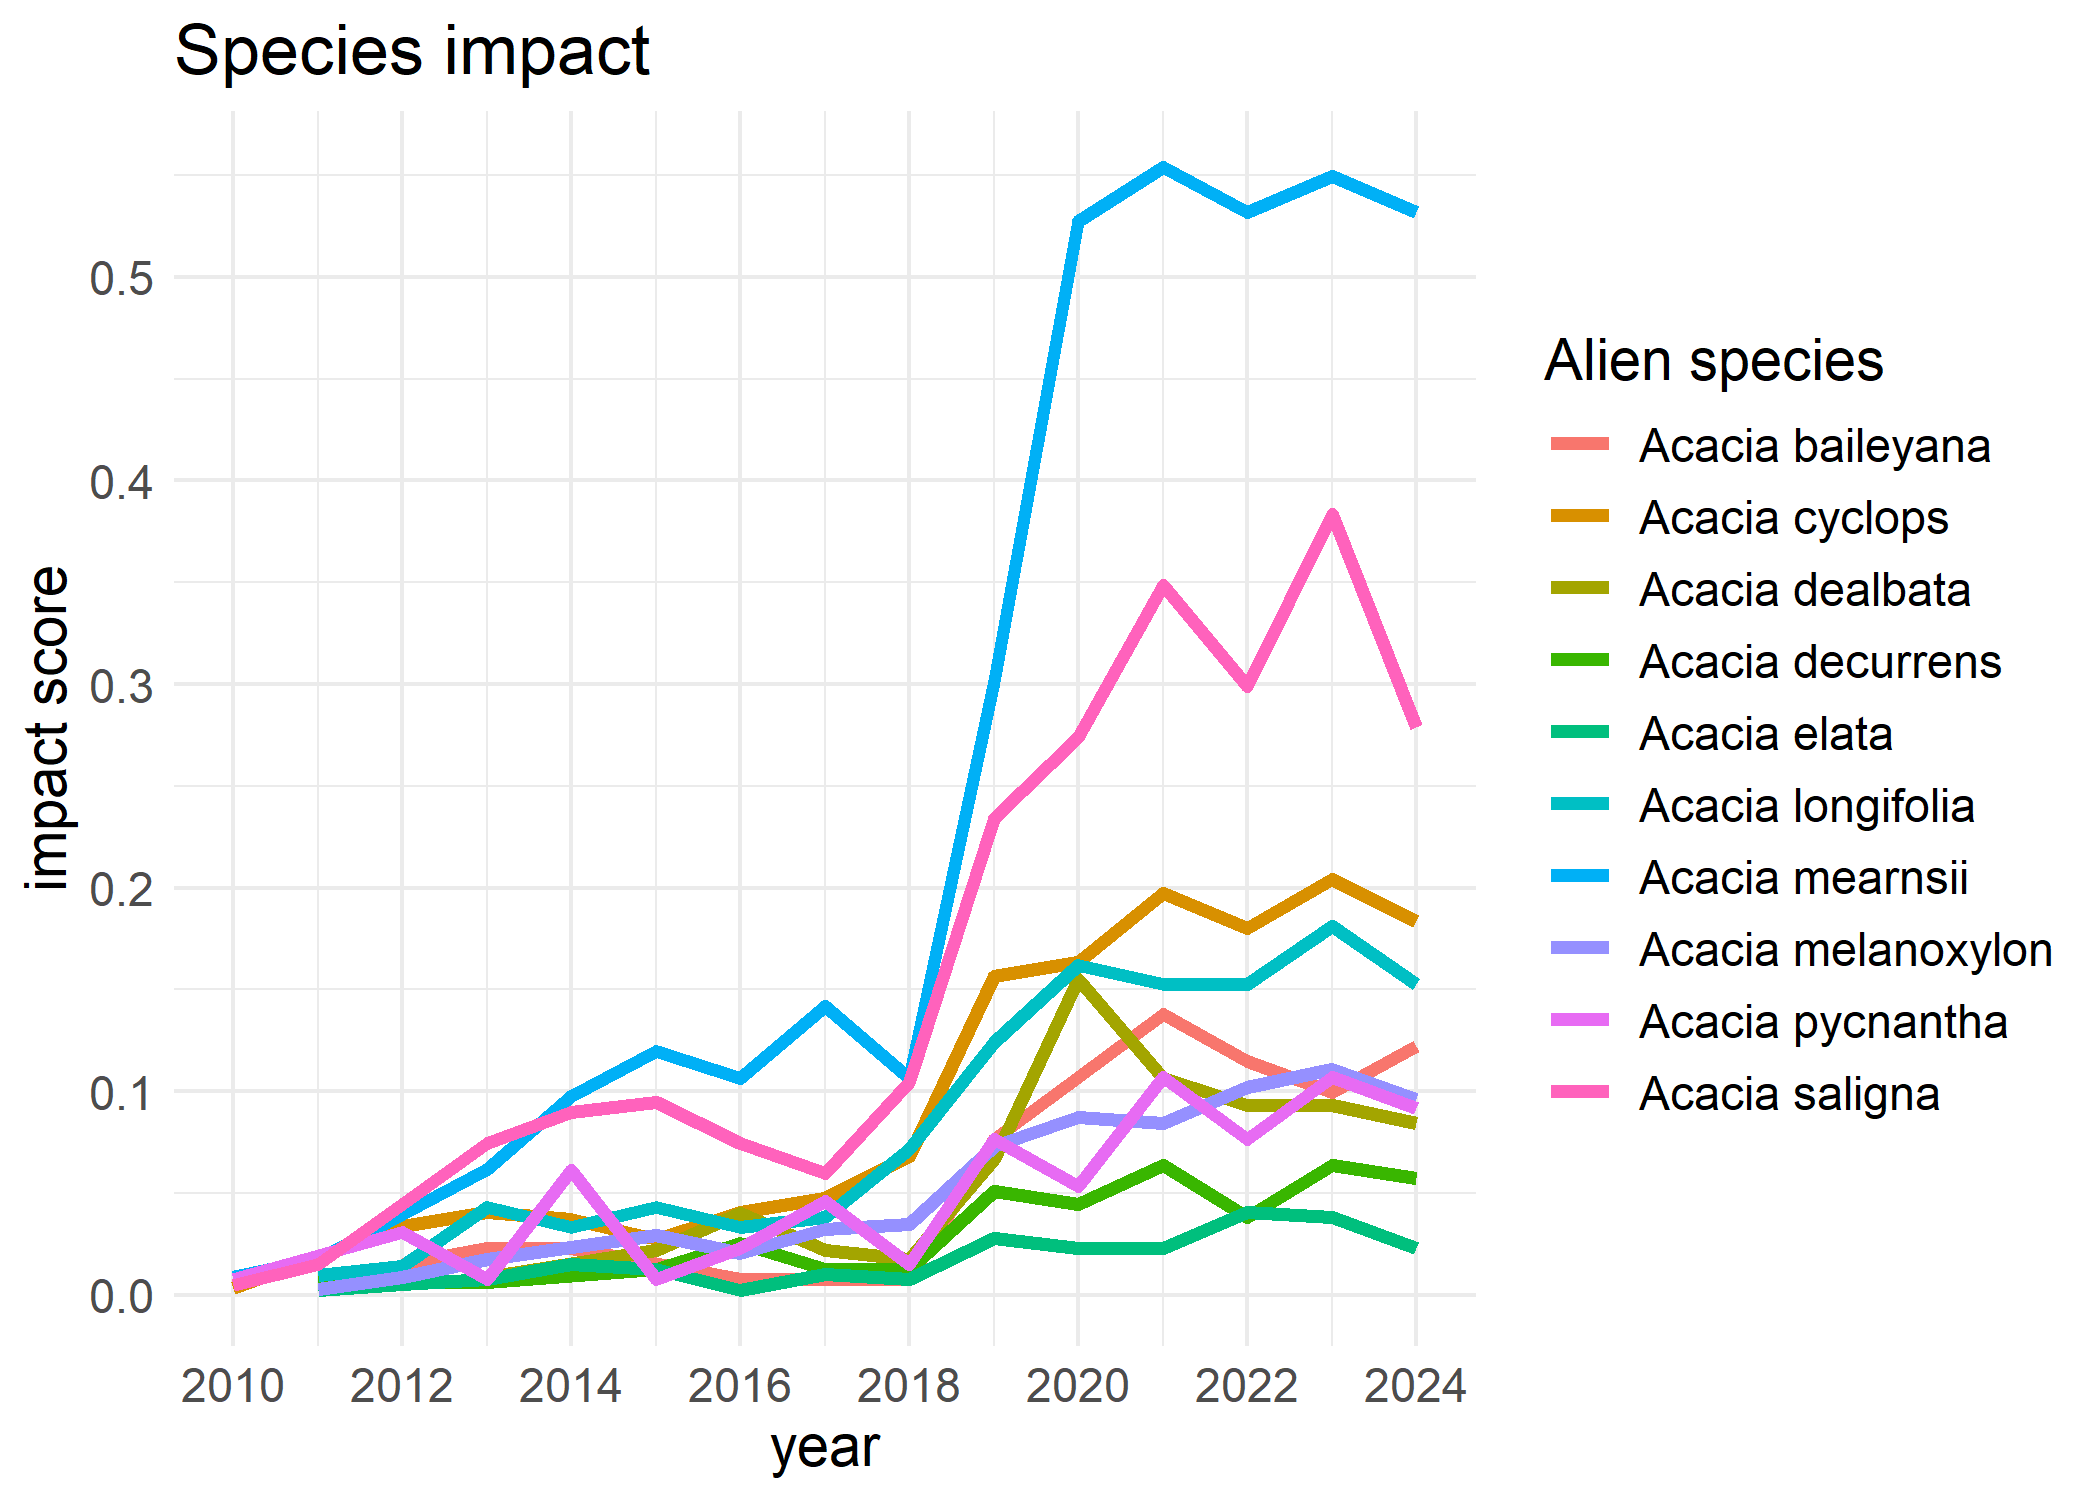
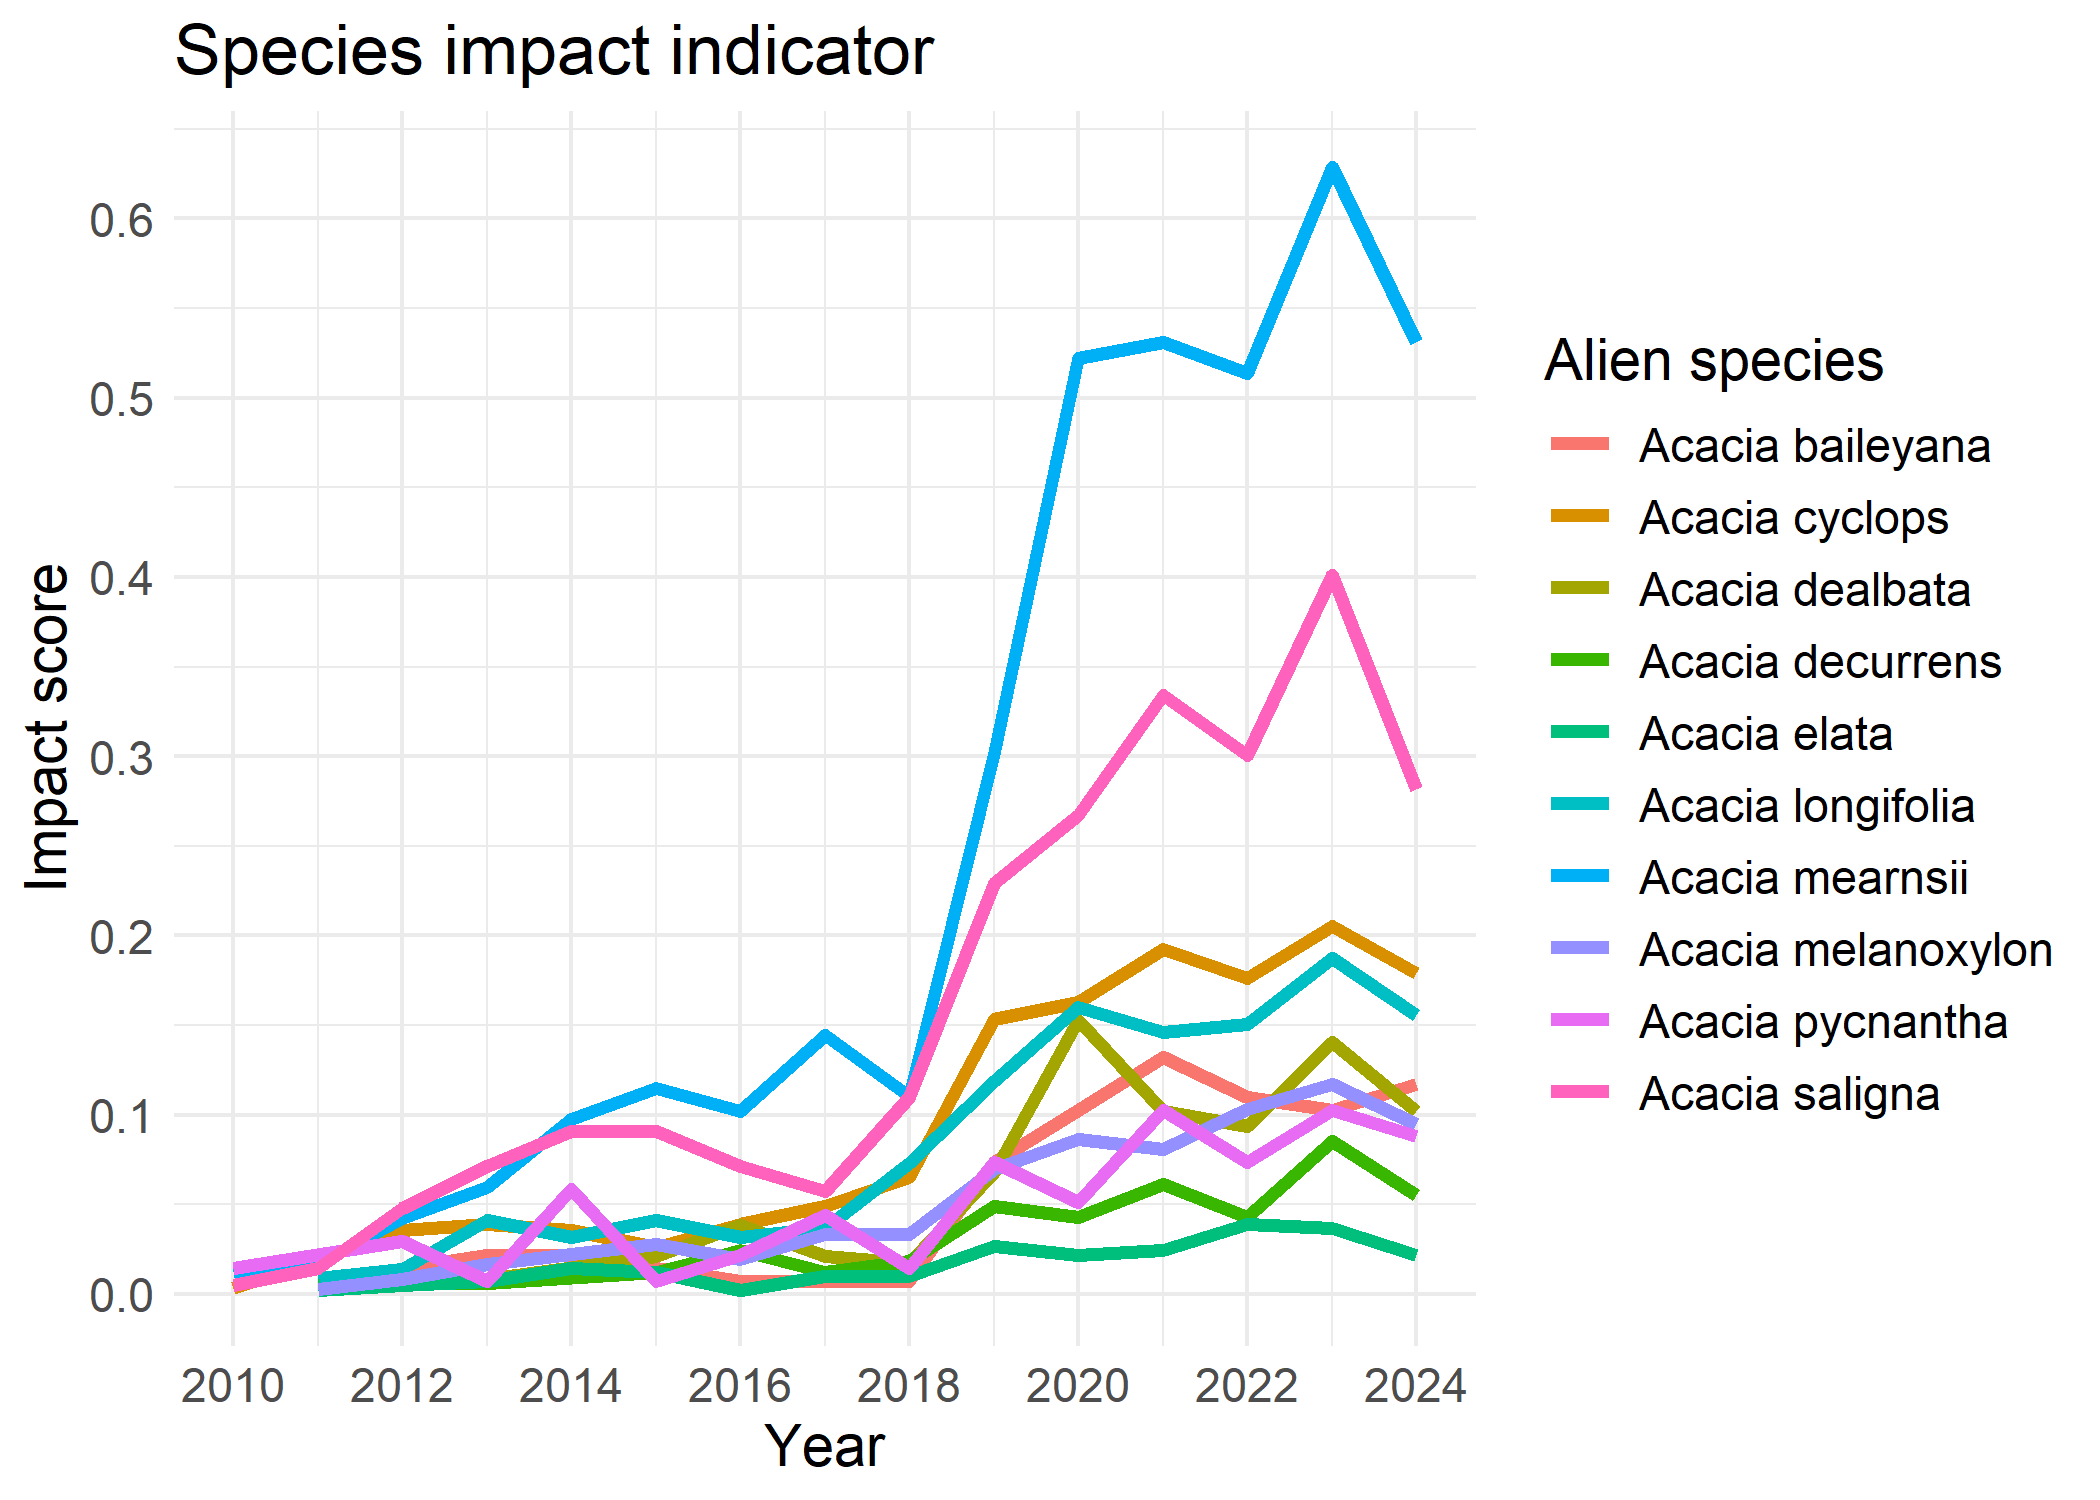
improve documentation and naming

diff --git a/README.md b/README.md
@@ -90,7 +90,6 @@ read more about these functions.
 ``` r
 # Load packages
 library(impIndicator)
-#> Warning: package 'impIndicator' was built under R version 4.4.3
 
 library(b3gbi)     # General biodiversity indicators for data cubes
 library(ggplot2)   # Visualisation
@@ -116,13 +115,13 @@ acacia_cube
 #> Simulated data cube for calculating biodiversity indicators
 #> 
 #> Date Range: 2010 - 2024 
-#> Number of cells: 398 
+#> Number of cells: 415 
 #> Grid reference system: custom 
 #> Coordinate range:
 #>      xmin      xmax      ymin      ymax 
 #>  16.60833  31.60833 -34.69700 -22.94701 
 #> 
-#> Total number of observations: 6252 
+#> Total number of observations: 6728 
 #> Number of species represented: 29 
 #> Number of families represented: Data not present 
 #> 
@@ -130,7 +129,7 @@ acacia_cube
 #> 
 #> First 10 rows of data (use n = to show more):
 #> 
-#> # A tibble: 6,252 × 8
+#> # A tibble: 6,728 × 8
 #>    scientificName   taxonKey minCoordinateUncerta…¹  year cellCode xcoord ycoord
 #>    <chr>               <dbl>                  <dbl> <dbl> <chr>     <dbl>  <dbl>
 #>  1 Acacia mearnsii   2979775                      8  2010 1376       30.4  -29.7
@@ -138,12 +137,12 @@ acacia_cube
 #>  3 Acacia implexa    2979232                      1  2010 206        18.4  -33.9
 #>  4 Acacia pycnantha  2978604                      1  2010 206        18.4  -33.9
 #>  5 Acacia cyclops    2980425                    122  2010 668        18.4  -32.2
-#>  6 Acacia mearnsii   2979775                      1  2010 215        20.6  -33.9
-#>  7 Acacia mearnsii   2979775                    110  2010 215        20.6  -33.9
-#>  8 Acacia saligna    2978552                      1  2011 206        18.4  -33.9
-#>  9 Acacia saligna    2978552                      1  2011 144        19.4  -34.2
-#> 10 Acacia melanoxy…  2979000                      1  2011 206        18.4  -33.9
-#> # ℹ 6,242 more rows
+#>  6 Acacia mearnsii   2979775                   1100  2010 1110       29.9  -30.7
+#>  7 Acacia mearnsii   2979775                      1  2010 215        20.6  -33.9
+#>  8 Acacia mearnsii   2979775                    110  2010 215        20.6  -33.9
+#>  9 Acacia pycnantha  2978604                   1100  2010 143        19.1  -34.2
+#> 10 Acacia saligna    2978552                      1  2011 206        18.4  -33.9
+#> # ℹ 6,718 more rows
 #> # ℹ abbreviated name: ¹minCoordinateUncertaintyInMeters
 #> # ℹ 1 more variable: obs <dbl>
 ```
@@ -186,14 +185,15 @@ scores across species at each site are needed. The `site_impact()` uses
 species as proposed by Boulesnane-Guengant et al., (in preparation). The
 combinations of within species aggregation metrics for each species and
 across species for each site leads to five methods of calculating an
-impact indicator, namely, **precautionary**, **precautionary
-cumulative**, **mean**, **mean cumulative** and **cumulative**.  
+impact indicator, namely, **precautionary** (precaut), **precautionary
+cumulative** (precaut_cum), **mean**, **mean cumulative** (mean_cum) and
+**cumulative** (cum).  
 
 ``` r
 siteImpact <- site_impact(
   cube = acacia_cube,
   impact_data = eicat_acacia,
-  method = "mean cumulative"
+  method = "mean_cum"
 )
 
 # Impact map
@@ -216,7 +216,7 @@ year.
 impactIndicator <- impact_indicator(
   cube = acacia_cube,
   impact_data = eicat_acacia,
-  method = "mean cumulative"
+  method = "mean_cum"
 )
 
 # Visualise impact indicator
